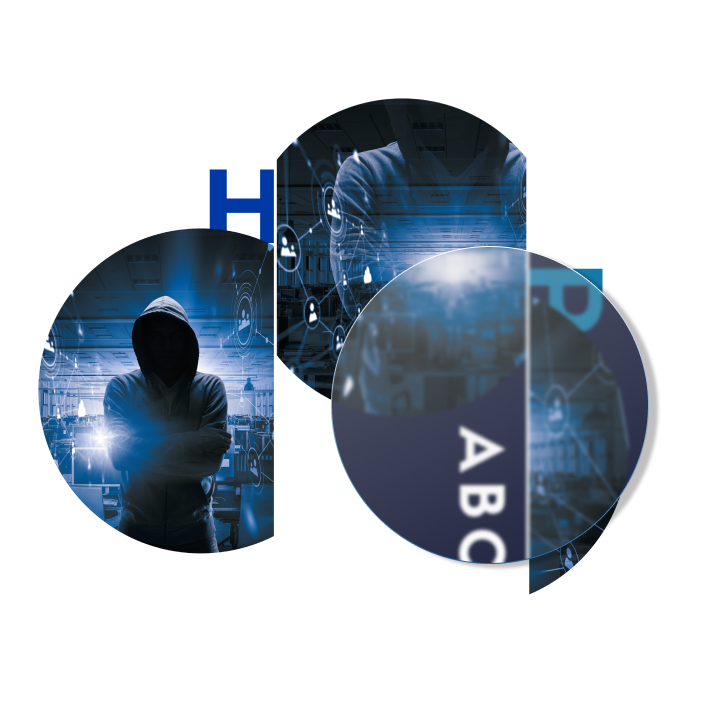
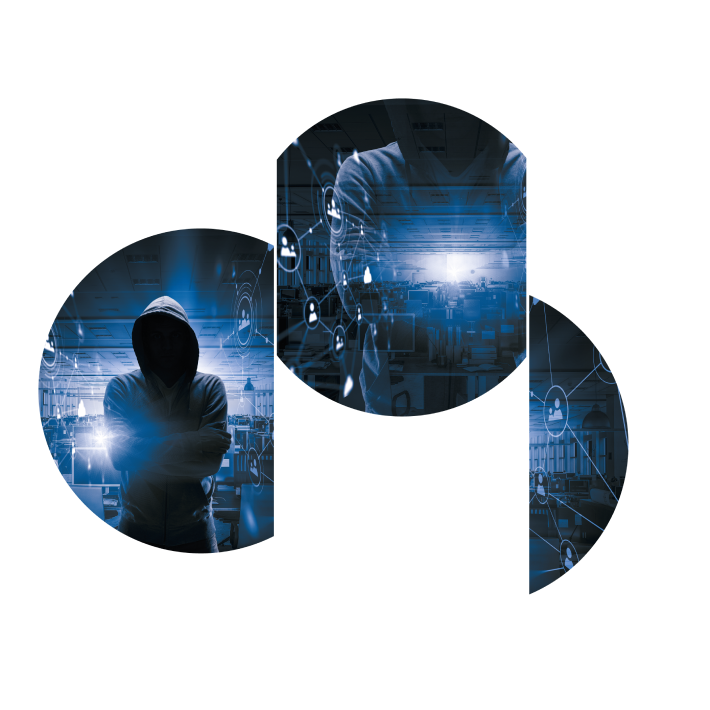
Adding info in about section

Changed region(s): [[0.4648, 0.3408, 0.9296, 0.8056], [0.2789, 0.2169, 0.4028, 0.3408]]

diff --git a/index.html b/index.html
@@ -49,11 +49,13 @@
         </div>
     </header>
     <section class="about">
-        <div class="row justify-content-center">
+        <div class="row justify-content-center align-items-center">
             <div class="col-8 col-md-6">
                 <img src="images/imagen-about.png">
+                <p class="about-title">ABOUT</p>
+                <!-- <div class="about-elipse"></div> -->
             </div>
-            <div class="col-10 col-md-4" id="about-text">
+            <div class="col-10 col-md-5" id="about-text">
                 <p>
                     The next January 21, 22 and 23 we gather the hackers that develop sustainable solutions to challenges launched
                 </p>
@@ -67,7 +69,7 @@
                     Why was that theme chosen?
                 </h4>
                 <p>
-                    PoliHacks in this 2022 edition will focus on searching solutions through code to try to solve our increasing climate change problem, in matters of sustainability areas like social, environmental and economic.
+                    According to the global risk report 2020 published by the World Economic Forum, the catastrophic event with more impact and more likelihood to happen is the climate action failure, followed by extreme weather, biodiversity loss, natural disasters and human-made environmental disasters. In PoliHacks we're convinced that with creativity, inventiveness and technology we can face and win against this threatens, that's why we’re putting all our efforts together in organizing this hackathon in which besides having fun and build ourselves as professionals the young generations will have the opportunity of propose and implement solutions to this topic who will decide the course of our future.
                 </p>
 
 

diff --git a/style.css b/style.css
@@ -10,7 +10,7 @@ body{
     /*font-family: 'Sifonn Pro';*/
 }
 
-.mhl-logo{
+.mlh-logo{
     float: right;
     padding-right: 50px;
 }
@@ -103,6 +103,32 @@ header #menu-elements{
 }
 .about > div{
     margin-right: 0px;
+}
+
+.about-title{
+    font-family: Sifonn Pro;
+    font-style: normal;
+    font-weight: bold;
+    font-size: 60px;
+    line-height: 60px;
+    letter-spacing: 0.14em;
+
+    color: #FFFFFF;
+
+    transform: rotate(90deg);
+}
+
+.about-elipse{
+    position: relative;
+    width: 318px;
+    height: 318px;
+    left: 230px;
+    top: -450px;
+    border-radius: 50%;
+
+    background: linear-gradient(154.07deg, rgba(196, 196, 196, 0.324) 16.36%, rgba(196, 196, 196, 0) 101.9%);
+    filter: drop-shadow(9px 4px 4px rgba(0, 0, 0, 0.25));
+    backdrop-filter: blur(4px);
 }
 
 #about-text{
